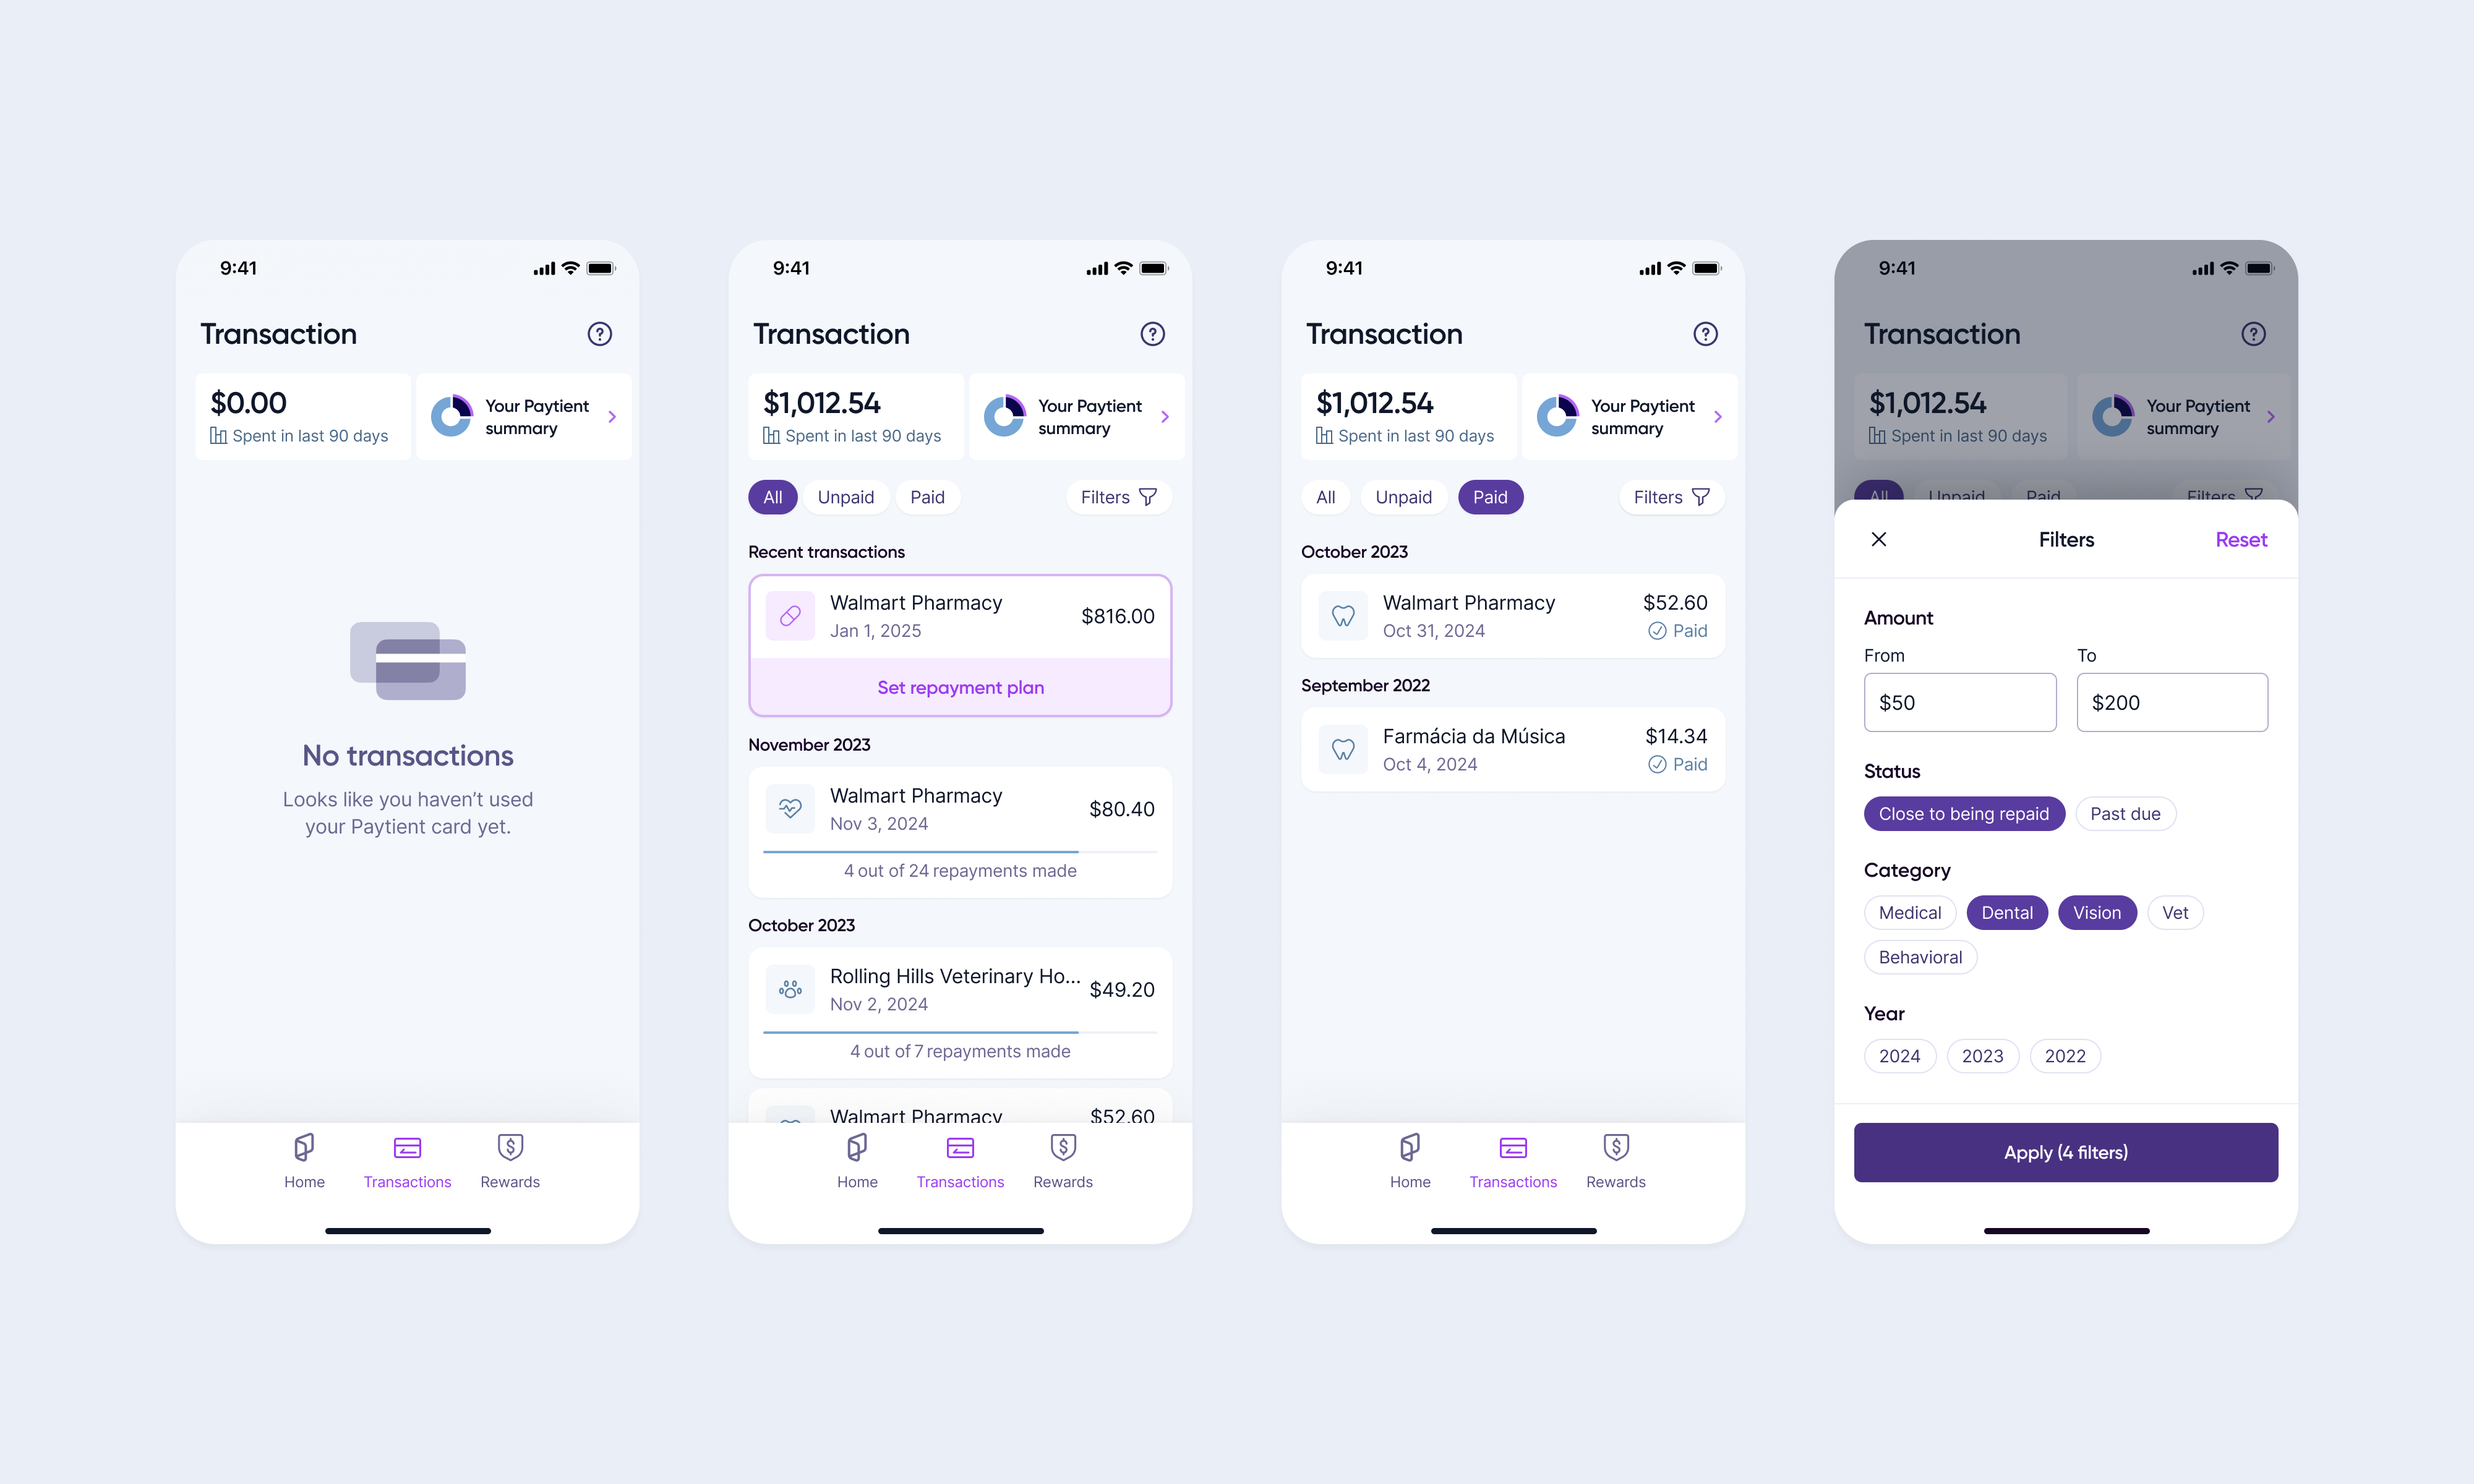
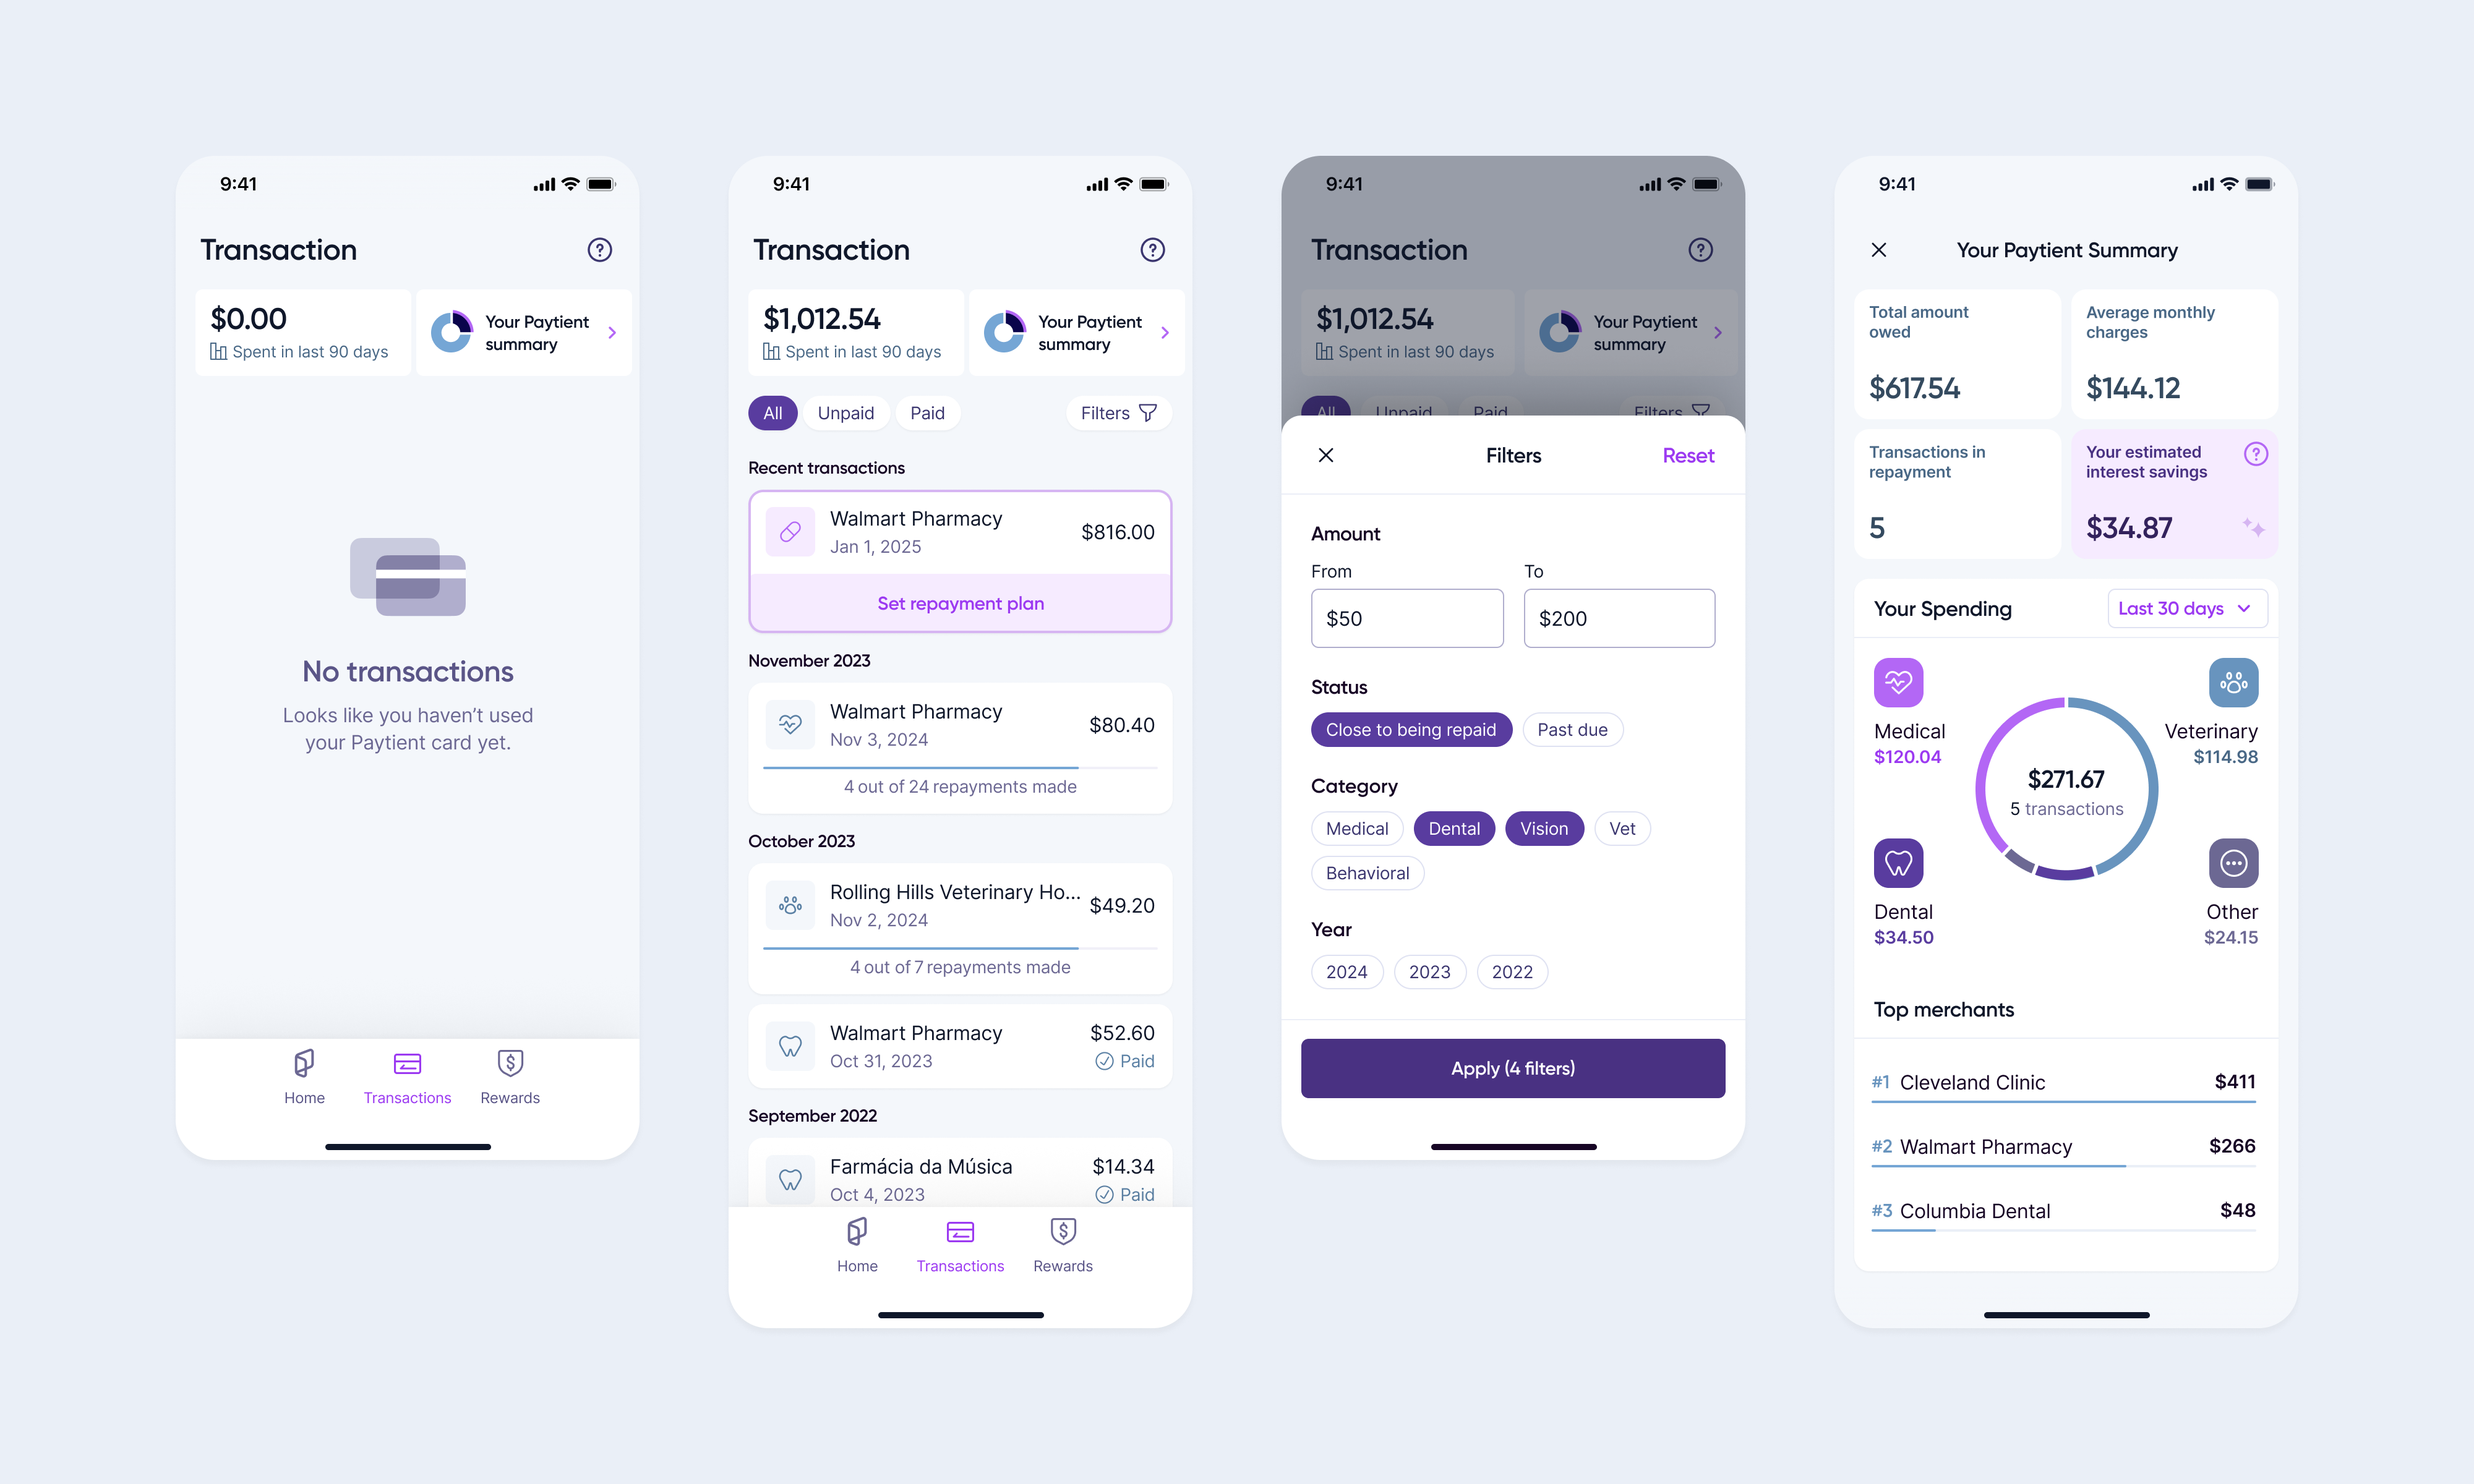
Rewrite Paytient's transactions part around repayment and delinquency
Adds the Paytient summary and the updated transactions image.

diff --git a/projects/paytient/index.html b/projects/paytient/index.html
@@ -302,24 +302,23 @@
           <div class="prose">
             <h3>Transactions and payments</h3>
             <p>Every Paytient transaction has a repayment plan behind it, so members need to see what they spent, what they still owe and whether they're on track. This area is also where we worked on our third goal, reducing delinquency.</p>
-            <p>Transactions are grouped by month, and each card shows repayment progress, such as &ldquo;4 out of 24 repayments made&rdquo;. Tabs split them into All, Unpaid and Paid.</p>
+            <p>Members are more likely to repay on time when paying is easy and the next step is obvious, so we focused on three things. Setting up a repayment plan takes a few steps and lets members choose how many payments to make. Members can pay any transaction in full at any time, or make an extra payment to get ahead. And when an installment is past due, the transaction shows a clear button to pay it and get back on schedule.</p>
           </div>
         </div>
         <figure class="figure">
-          <img src="/assets/img/projects/paytient/transactions.png" width="4000" height="2400" alt="Transactions screen: no transactions yet, a list with a transaction waiting for a repayment plan, the Paid tab, and the filter sheet" loading="lazy">
+          <img src="/assets/img/projects/paytient/transaction-repayment.png" width="4000" height="2400" alt="Setting a repayment plan: choose a plan or pay in full, pick a payment method and number of payments, and confirmation that the plan is saved" loading="lazy">
+        </figure>
+        <figure class="figure">
+          <img src="/assets/img/projects/paytient/transaction-details.png" width="4000" height="2400" alt="Transaction details on schedule, past due and paid, and the repayment plan timeline" loading="lazy">
         </figure>
         <div class="row">
           <span class="spacer" aria-hidden="true"></span>
           <div class="prose">
-            <p>A filter sheet narrows them further by amount, status, category and year. The Filters button shows how many filters are on, and Apply stays disabled until a member picks one.</p>
-            <p>A transaction can be on schedule, past due or paid, and the detail screen changes with it. On schedule, members see their progress, payment method and what's left, with a button to make an extra payment and get ahead.</p>
+            <p>We also added the Paytient summary, which shows a member's transactions in a chart split by type, with clear infographics of their health spending over time.</p>
           </div>
         </div>
         <figure class="figure">
-          <img src="/assets/img/projects/paytient/transaction-details.png" width="4000" height="2400" alt="Transaction details on schedule, past due and paid, and the repayment plan timeline" loading="lazy">
-        </figure>
-        <figure class="figure">
-          <img src="/assets/img/projects/paytient/transaction-repayment.png" width="4000" height="2400" alt="Setting a repayment plan: choose a plan or pay in full, pick a payment method and number of payments, and confirmation that the plan is saved" loading="lazy">
+          <img src="/assets/img/projects/paytient/transactions.png" width="4000" height="2400" alt="Transactions screen with no transactions yet, a list with a transaction waiting for a repayment plan, the filter sheet, and the Paytient summary with spending by category and top merchants" loading="lazy">
         </figure>
         <div class="row">
           <span class="spacer" aria-hidden="true"></span>
